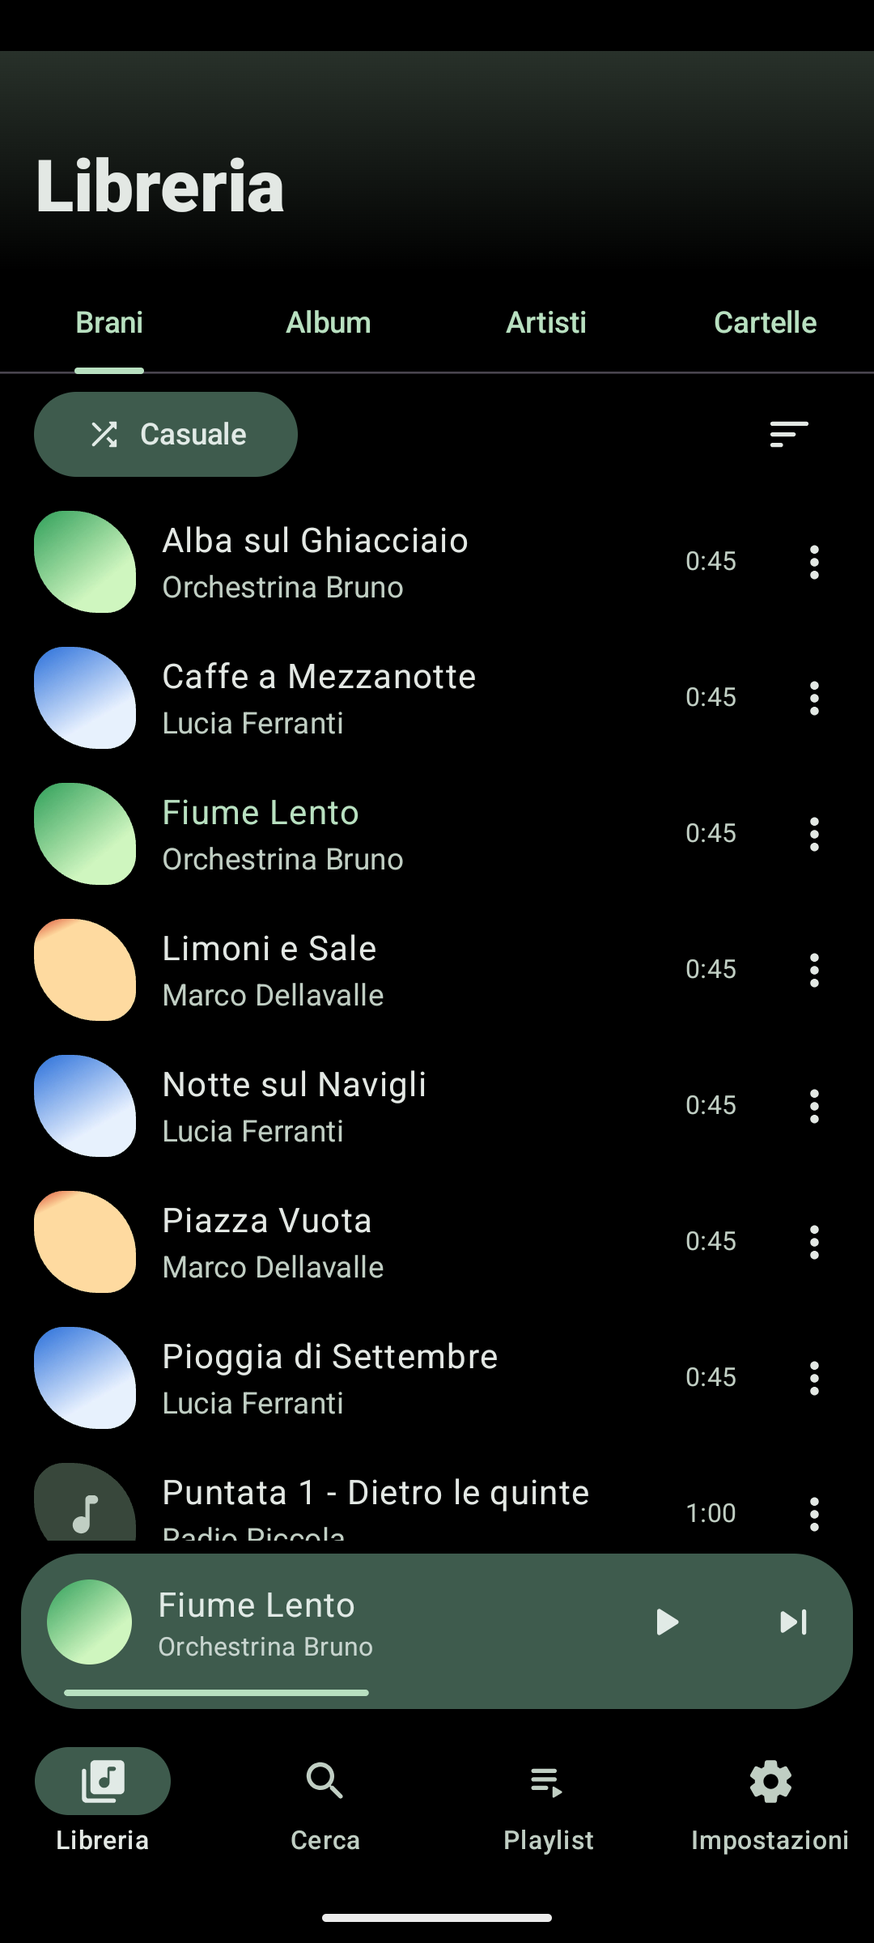
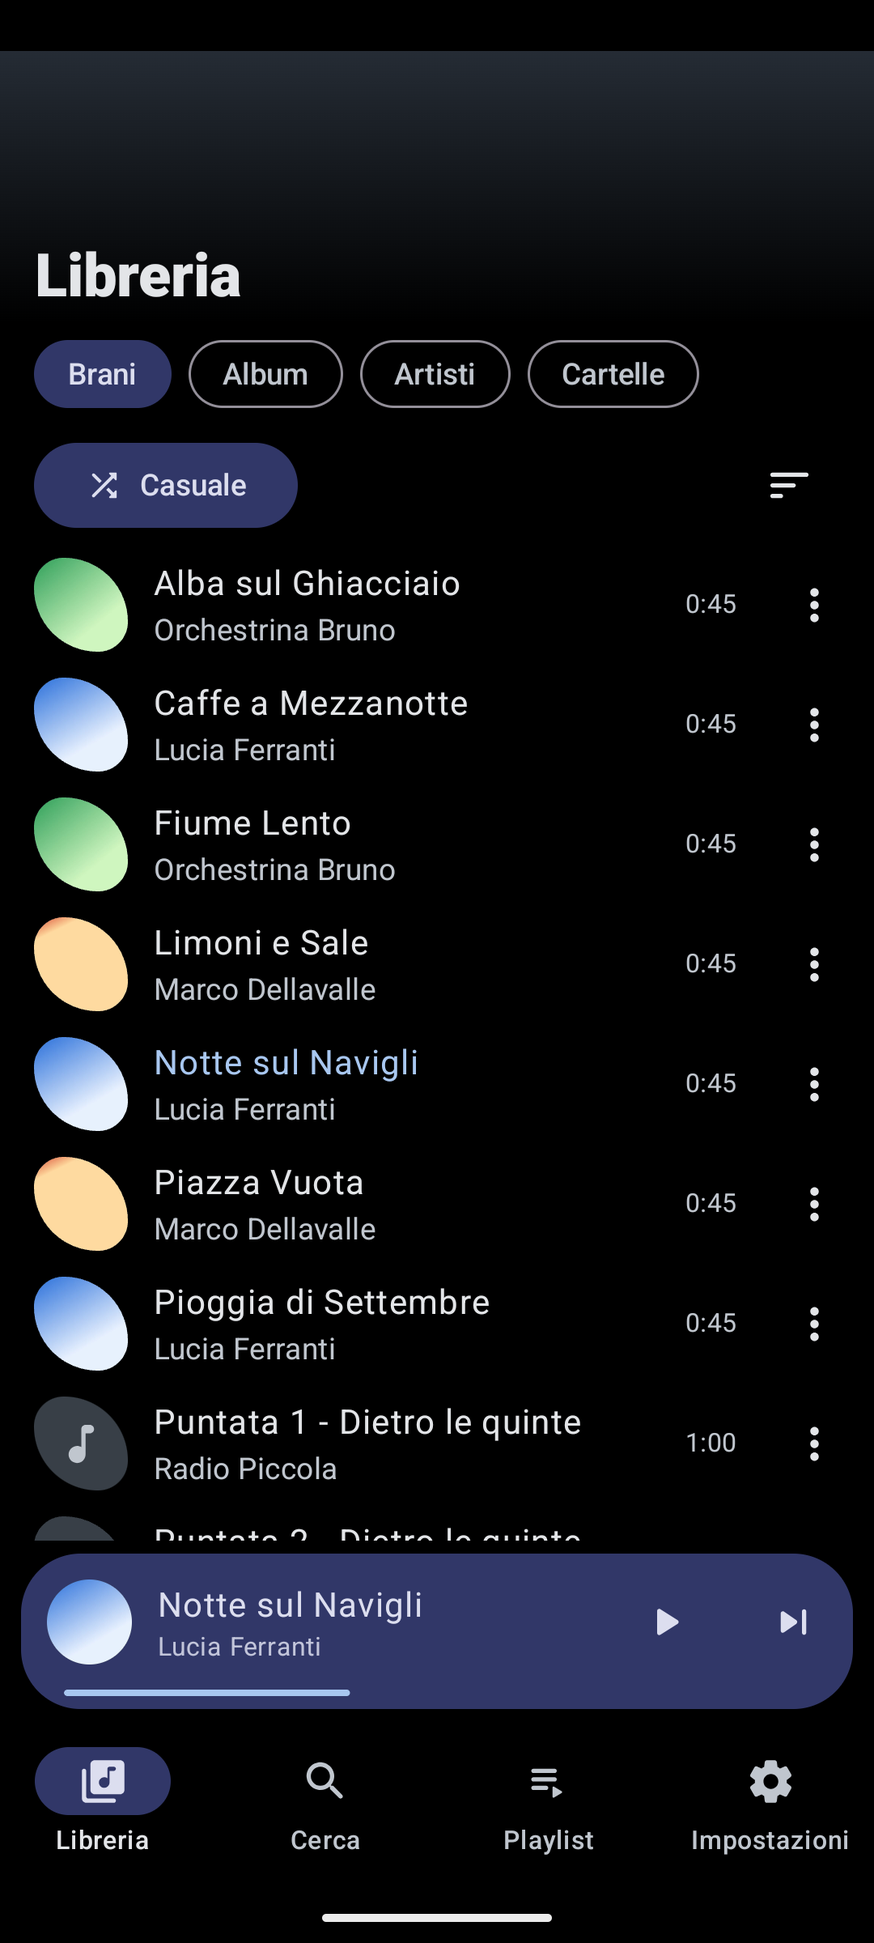
feat(ui): compact library with pill filters and a collapsing title; preview v1.3

diff --git a/docs/preview/index.html b/docs/preview/index.html
@@ -1,4 +1,4 @@
-<!doctype html><html lang="it"><head><meta charset="utf-8"><meta name="viewport" content="width=device-width,initial-scale=1"><title>Brano — anteprima v1.2</title><style>
+<!doctype html><html lang="it"><head><meta charset="utf-8"><meta name="viewport" content="width=device-width,initial-scale=1"><title>Brano — anteprima v1.3</title><style>
 :root{--bg:#f7f7fb;--fg:#1b1b22;--mut:#5b5b69;--card:#fff;--acc:#2a5db0;--line:#dcdce6;--frame:#1b1b22}
 @media(prefers-color-scheme:dark){:root{--bg:#121216;--fg:#ececf2;--mut:#a3a3b2;--card:#1c1c22;--acc:#8fb4ff;--line:#33333d;--frame:#05050a}}
 *{box-sizing:border-box}body{margin:0;background:var(--bg);color:var(--fg);font:16px/1.55 system-ui,-apple-system,Segoe UI,Roboto,sans-serif}
@@ -11,16 +11,17 @@ p,li{max-width:70ch}a{color:var(--acc)}code{background:var(--card);border:1px so
 dialog{border:0;border-radius:16px;padding:12px;background:var(--card);color:var(--fg);max-width:min(92vw,460px)}dialog::backdrop{background:rgba(0,0,0,.7)}
 dialog img{display:block;max-width:100%;max-height:80vh;margin:0 auto;border-radius:12px}dialog p{margin:8px 0 0;text-align:center}dialog button{margin-top:8px;font:inherit;padding:6px 14px}
 </style></head><body><main>
-<h1>Brano — anteprima v1.2</h1>
+<h1>Brano — anteprima v1.3</h1>
 <p>Brano e' un lettore musicale locale per Android: libreria, ricerca, playlist, coda, timer di spegnimento, tema chiaro/scuro e colori presi dalla copertina. Costruito e provato su emulatore Android 16 con una libreria di prova (brani e nomi inventati). Tocca un'immagine per ingrandirla.</p>
-<p><b>Novita' v1.2:</b> tema scuro come predefinito, con la luce dell'album nelle intestazioni; album e playlist con copertina grande e pulsanti a pillola; nel player i comandi stanno in basso, vicino al pollice, e la coda e' nella riga in fondo. Il tema chiaro resta in Impostazioni.</p>
+<p><b>Novita' v1.3:</b> libreria piu' compatta (filtri a pillola, titolo che si riduce scorrendo, circa 10 brani per schermata), etichetta della qualita' del file (FLAC nelle liste, formato e kbps nel player), copertine grigie neutre nel player.</p>
+<p><b>v1.2:</b> tema scuro come predefinito, con la luce dell'album nelle intestazioni; album e playlist con copertina grande e pulsanti a pillola; nel player i comandi stanno in basso, vicino al pollice, e la coda e' nella riga in fondo. Il tema chiaro resta in Impostazioni.</p>
 <p><b>v1.1 (redesign):</b> libreria in stile Espressivo (titoli grandi, copertine con angoli asimmetrici, mini-player a pillola) e player in stile Vinile (luce dai colori dell'album, copertina a disco che gira durante la riproduzione, titolo serif). Il disco si puo' fermare da Impostazioni &rarr; Disco che gira.</p>
-<section><h2>Libreria</h2><div class="grid"><figure><button class="ph" data-src="img/01-libreria-brani.png" data-cap="Brani: elenco con copertine, durata e pulsante Casuale."><img src="img/01-libreria-brani.png" alt="Brani: elenco con copertine, durata e pulsante Casuale." loading="lazy"></button><figcaption>Brani: elenco con copertine, durata e pulsante Casuale.</figcaption></figure><figure><button class="ph" data-src="img/02-libreria-album.png" data-cap="Album: griglia di copertine."><img src="img/02-libreria-album.png" alt="Album: griglia di copertine." loading="lazy"></button><figcaption>Album: griglia di copertine.</figcaption></figure><figure><button class="ph" data-src="img/03-libreria-artisti.png" data-cap="Artisti."><img src="img/03-libreria-artisti.png" alt="Artisti." loading="lazy"></button><figcaption>Artisti.</figcaption></figure><figure><button class="ph" data-src="img/04-libreria-cartelle.png" data-cap="Cartelle: il podcast resta separato dalla musica."><img src="img/04-libreria-cartelle.png" alt="Cartelle: il podcast resta separato dalla musica." loading="lazy"></button><figcaption>Cartelle: il podcast resta separato dalla musica.</figcaption></figure><figure><button class="ph" data-src="img/05-dettaglio-album.png" data-cap="Dettaglio di un album: copertina illuminata dal suo colore, anno, brani e durata totale."><img src="img/05-dettaglio-album.png" alt="Dettaglio di un album: copertina illuminata dal suo colore, anno, brani e durata totale." loading="lazy"></button><figcaption>Dettaglio di un album: copertina illuminata dal suo colore, anno, brani e durata totale.</figcaption></figure><figure><button class="ph" data-src="img/06-dettaglio-artista.png" data-cap="Artista con la riga degli album e i suoi brani."><img src="img/06-dettaglio-artista.png" alt="Artista con la riga degli album e i suoi brani." loading="lazy"></button><figcaption>Artista con la riga degli album e i suoi brani.</figcaption></figure></div></section><section><h2>Ricerca</h2><div class="grid"><figure><button class="ph" data-src="img/07-cerca.png" data-cap="Ricerca istantanea su brani, album e artisti."><img src="img/07-cerca.png" alt="Ricerca istantanea su brani, album e artisti." loading="lazy"></button><figcaption>Ricerca istantanea su brani, album e artisti.</figcaption></figure></div></section><section><h2>Playlist</h2><div class="grid"><figure><button class="ph" data-src="img/14-playlist-elenco.png" data-cap="Playlist automatiche e le tue playlist."><img src="img/14-playlist-elenco.png" alt="Playlist automatiche e le tue playlist." loading="lazy"></button><figcaption>Playlist automatiche e le tue playlist.</figcaption></figure><figure><button class="ph" data-src="img/14b-preferiti.png" data-cap="Preferiti, popolati con il cuore del Player."><img src="img/14b-preferiti.png" alt="Preferiti, popolati con il cuore del Player." loading="lazy"></button><figcaption>Preferiti, popolati con il cuore del Player.</figcaption></figure><figure><button class="ph" data-src="img/15-playlist-dettaglio.png" data-cap="Dettaglio playlist con la stessa intestazione e riordino a trascinamento."><img src="img/15-playlist-dettaglio.png" alt="Dettaglio playlist con la stessa intestazione e riordino a trascinamento." loading="lazy"></button><figcaption>Dettaglio playlist con la stessa intestazione e riordino a trascinamento.</figcaption></figure></div></section><section><h2>Player</h2><div class="grid"><figure><button class="ph" data-src="img/09-miniplayer.png" data-cap="Mini-player sopra la libreria, con colori dalla copertina."><img src="img/09-miniplayer.png" alt="Mini-player sopra la libreria, con colori dalla copertina." loading="lazy"></button><figcaption>Mini-player sopra la libreria, con colori dalla copertina.</figcaption></figure><figure><button class="ph" data-src="img/10-player-album-a.png" data-cap="Player Vinile: disco grande, comandi in basso vicino al pollice."><img src="img/10-player-album-a.png" alt="Player Vinile: disco grande, comandi in basso vicino al pollice." loading="lazy"></button><figcaption>Player Vinile: disco grande, comandi in basso vicino al pollice.</figcaption></figure><figure><button class="ph" data-src="img/11-player-album-b.png" data-cap="Stesso player con l'album B: luce e accenti diventano arancio."><img src="img/11-player-album-b.png" alt="Stesso player con l'album B: luce e accenti diventano arancio." loading="lazy"></button><figcaption>Stesso player con l'album B: luce e accenti diventano arancio.</figcaption></figure><figure><button class="ph" data-src="img/12-coda.png" data-cap="Coda di riproduzione, con Salva come playlist."><img src="img/12-coda.png" alt="Coda di riproduzione, con Salva come playlist." loading="lazy"></button><figcaption>Coda di riproduzione, con Salva come playlist.</figcaption></figure><figure><button class="ph" data-src="img/13-timer-spegnimento.png" data-cap="Timer di spegnimento."><img src="img/13-timer-spegnimento.png" alt="Timer di spegnimento." loading="lazy"></button><figcaption>Timer di spegnimento.</figcaption></figure></div></section><section><h2>Impostazioni</h2><div class="grid"><figure><button class="ph" data-src="img/16-impostazioni.png" data-cap="Tema, colori dalla copertina, Disco che gira, durata minima, cartelle escluse."><img src="img/16-impostazioni.png" alt="Tema, colori dalla copertina, Disco che gira, durata minima, cartelle escluse." loading="lazy"></button><figcaption>Tema, colori dalla copertina, Disco che gira, durata minima, cartelle escluse.</figcaption></figure></div></section>
+<section><h2>Libreria</h2><div class="grid"><figure><button class="ph" data-src="img/01-libreria-brani.png" data-cap="Brani: filtri a pillola, righe compatte, pulsante Casuale."><img src="img/01-libreria-brani.png" alt="Brani: filtri a pillola, righe compatte, pulsante Casuale." loading="lazy"></button><figcaption>Brani: filtri a pillola, righe compatte, pulsante Casuale.</figcaption></figure><figure><button class="ph" data-src="img/02-libreria-album.png" data-cap="Album: griglia di copertine."><img src="img/02-libreria-album.png" alt="Album: griglia di copertine." loading="lazy"></button><figcaption>Album: griglia di copertine.</figcaption></figure><figure><button class="ph" data-src="img/03-libreria-artisti.png" data-cap="Artisti."><img src="img/03-libreria-artisti.png" alt="Artisti." loading="lazy"></button><figcaption>Artisti.</figcaption></figure><figure><button class="ph" data-src="img/04-libreria-cartelle.png" data-cap="Cartelle: il podcast resta separato dalla musica."><img src="img/04-libreria-cartelle.png" alt="Cartelle: il podcast resta separato dalla musica." loading="lazy"></button><figcaption>Cartelle: il podcast resta separato dalla musica.</figcaption></figure><figure><button class="ph" data-src="img/05-dettaglio-album.png" data-cap="Dettaglio di un album: copertina illuminata dal suo colore, anno, brani e durata totale."><img src="img/05-dettaglio-album.png" alt="Dettaglio di un album: copertina illuminata dal suo colore, anno, brani e durata totale." loading="lazy"></button><figcaption>Dettaglio di un album: copertina illuminata dal suo colore, anno, brani e durata totale.</figcaption></figure><figure><button class="ph" data-src="img/06-dettaglio-artista.png" data-cap="Artista con la riga degli album e i suoi brani."><img src="img/06-dettaglio-artista.png" alt="Artista con la riga degli album e i suoi brani." loading="lazy"></button><figcaption>Artista con la riga degli album e i suoi brani.</figcaption></figure></div></section><section><h2>Ricerca</h2><div class="grid"><figure><button class="ph" data-src="img/07-cerca.png" data-cap="Ricerca istantanea su brani, album e artisti."><img src="img/07-cerca.png" alt="Ricerca istantanea su brani, album e artisti." loading="lazy"></button><figcaption>Ricerca istantanea su brani, album e artisti.</figcaption></figure></div></section><section><h2>Playlist</h2><div class="grid"><figure><button class="ph" data-src="img/14-playlist-elenco.png" data-cap="Playlist automatiche e le tue playlist."><img src="img/14-playlist-elenco.png" alt="Playlist automatiche e le tue playlist." loading="lazy"></button><figcaption>Playlist automatiche e le tue playlist.</figcaption></figure><figure><button class="ph" data-src="img/14b-preferiti.png" data-cap="Preferiti, popolati con il cuore del Player."><img src="img/14b-preferiti.png" alt="Preferiti, popolati con il cuore del Player." loading="lazy"></button><figcaption>Preferiti, popolati con il cuore del Player.</figcaption></figure><figure><button class="ph" data-src="img/15-playlist-dettaglio.png" data-cap="Dettaglio playlist con la stessa intestazione e riordino a trascinamento."><img src="img/15-playlist-dettaglio.png" alt="Dettaglio playlist con la stessa intestazione e riordino a trascinamento." loading="lazy"></button><figcaption>Dettaglio playlist con la stessa intestazione e riordino a trascinamento.</figcaption></figure></div></section><section><h2>Player</h2><div class="grid"><figure><button class="ph" data-src="img/09-miniplayer.png" data-cap="Mini-player sopra la libreria, con colori dalla copertina."><img src="img/09-miniplayer.png" alt="Mini-player sopra la libreria, con colori dalla copertina." loading="lazy"></button><figcaption>Mini-player sopra la libreria, con colori dalla copertina.</figcaption></figure><figure><button class="ph" data-src="img/10-player-album-a.png" data-cap="Player Vinile: disco grande, comandi in basso, etichetta della qualita' del file."><img src="img/10-player-album-a.png" alt="Player Vinile: disco grande, comandi in basso, etichetta della qualita' del file." loading="lazy"></button><figcaption>Player Vinile: disco grande, comandi in basso, etichetta della qualita' del file.</figcaption></figure><figure><button class="ph" data-src="img/11-player-album-b.png" data-cap="Stesso player con l'album B: luce e accenti diventano arancio."><img src="img/11-player-album-b.png" alt="Stesso player con l'album B: luce e accenti diventano arancio." loading="lazy"></button><figcaption>Stesso player con l'album B: luce e accenti diventano arancio.</figcaption></figure><figure><button class="ph" data-src="img/12-coda.png" data-cap="Coda di riproduzione, con Salva come playlist."><img src="img/12-coda.png" alt="Coda di riproduzione, con Salva come playlist." loading="lazy"></button><figcaption>Coda di riproduzione, con Salva come playlist.</figcaption></figure><figure><button class="ph" data-src="img/13-timer-spegnimento.png" data-cap="Timer di spegnimento."><img src="img/13-timer-spegnimento.png" alt="Timer di spegnimento." loading="lazy"></button><figcaption>Timer di spegnimento.</figcaption></figure></div></section><section><h2>Impostazioni</h2><div class="grid"><figure><button class="ph" data-src="img/16-impostazioni.png" data-cap="Tema, colori dalla copertina, Disco che gira, durata minima, cartelle escluse."><img src="img/16-impostazioni.png" alt="Tema, colori dalla copertina, Disco che gira, durata minima, cartelle escluse." loading="lazy"></button><figcaption>Tema, colori dalla copertina, Disco che gira, durata minima, cartelle escluse.</figcaption></figure></div></section>
 <section><h2>Installa sul telefono</h2>
-<p><a class="btn" href="Brano-v1.2.apk" download>Scarica Brano-v1.2.apk</a></p>
+<p><a class="btn" href="Brano-v1.3.apk" download>Scarica Brano-v1.3.apk</a></p>
 <p>L'APK e' firmato con la chiave di debug (non e' una build per lo store).</p>
-<ol><li>Copia <code>Brano-v1.2.apk</code> sul telefono e aprilo; consenti l'installazione da origini sconosciute per l'app che usi (File, Chrome...).</li>
-<li>Oppure, con il telefono collegato e il debug USB attivo: <code>adb install -r docs/preview/Brano-v1.2.apk</code></li>
+<ol><li>Copia <code>Brano-v1.3.apk</code> sul telefono e aprilo; consenti l'installazione da origini sconosciute per l'app che usi (File, Chrome...).</li>
+<li>Oppure, con il telefono collegato e il debug USB attivo: <code>adb install -r docs/preview/Brano-v1.3.apk</code></li>
 <li>Al primo avvio concedi il permesso audio (e le notifiche, per i controlli multimediali).</li></ol></section>
 <section><h2>Cosa verificare tu</h2><ul>
 <li>Gapless: nessun silenzio tra due brani consecutivi dello stesso album.</li>

diff --git a/app/src/main/java/app/brano/ui/components/BranoTopBar.kt b/app/src/main/java/app/brano/ui/components/BranoTopBar.kt
@@ -1,22 +1,25 @@
 package app.brano.ui.components
 
 import androidx.compose.foundation.layout.RowScope
-import androidx.compose.ui.graphics.Color
-import androidx.compose.ui.graphics.Brush
-import androidx.compose.ui.draw.drawBehind
-import androidx.compose.ui.Modifier
 import androidx.compose.material3.ExperimentalMaterial3Api
+import androidx.compose.material3.LargeTopAppBar
 import androidx.compose.material3.MaterialTheme
 import androidx.compose.material3.ProvideTextStyle
 import androidx.compose.material3.TopAppBar
 import androidx.compose.material3.TopAppBarDefaults
+import androidx.compose.material3.TopAppBarScrollBehavior
 import androidx.compose.runtime.Composable
+import androidx.compose.ui.Modifier
+import androidx.compose.ui.draw.drawBehind
+import androidx.compose.ui.graphics.Brush
+import androidx.compose.ui.graphics.Color
 import androidx.compose.ui.text.font.FontWeight
 import androidx.compose.ui.unit.dp
 
 /**
- * Top bar in the "Espressivo" style: top-level screens ([large]) get a very large heavy title,
- * detail screens a heavy regular-size one.
+ * Top bar in the "Espressivo" style. Top-level screens ([large]) get a big heavy title over a soft
+ * album glow; with a [scrollBehavior] it collapses into a normal bar while the content scrolls.
+ * Detail screens get a heavy regular-size title.
  */
 @OptIn(ExperimentalMaterial3Api::class)
 @Composable
@@ -25,24 +28,31 @@ fun BranoTopBar(
     title: @Composable () -> Unit,
     navigationIcon: @Composable () -> Unit = {},
     actions: @Composable RowScope.() -> Unit = {},
+    scrollBehavior: TopAppBarScrollBehavior? = null,
 ) {
-    val style = if (large) {
-        MaterialTheme.typography.headlineLarge
-    } else {
-        MaterialTheme.typography.titleLarge.copy(fontWeight = FontWeight.Black)
-    }
-    val glow = MaterialTheme.colorScheme.primary.copy(alpha = 0.22f)
-    TopAppBar(
-        title = { ProvideTextStyle(style, title) },
-        navigationIcon = navigationIcon,
-        actions = actions,
-        expandedHeight = if (large) 80.dp else TopAppBarDefaults.TopAppBarExpandedHeight,
-        colors = TopAppBarDefaults.topAppBarColors(containerColor = Color.Transparent),
-        modifier = if (large) {
-            // Static gradient, drawn once per frame of the bar only: no blur, no shader.
-            Modifier.drawBehind { drawRect(Brush.verticalGradient(listOf(glow, Color.Transparent))) }
-        } else {
-            Modifier
-        },
+    val transparent = TopAppBarDefaults.topAppBarColors(
+        containerColor = Color.Transparent,
+        scrolledContainerColor = Color.Transparent,
     )
+    if (large) {
+        val glow = MaterialTheme.colorScheme.primary.copy(alpha = 0.22f)
+        // Expanded title uses headlineMedium (Black in BranoTypography), collapsed titleLarge.
+        LargeTopAppBar(
+            title = title,
+            navigationIcon = navigationIcon,
+            actions = actions,
+            expandedHeight = 104.dp,
+            colors = transparent,
+            scrollBehavior = scrollBehavior,
+            // Static gradient: no blur, no shader.
+            modifier = Modifier.drawBehind { drawRect(Brush.verticalGradient(listOf(glow, Color.Transparent))) },
+        )
+    } else {
+        TopAppBar(
+            title = { ProvideTextStyle(MaterialTheme.typography.titleLarge.copy(fontWeight = FontWeight.Black), title) },
+            navigationIcon = navigationIcon,
+            actions = actions,
+            colors = transparent,
+        )
+    }
 }

diff --git a/app/src/main/java/app/brano/ui/library/LibraryScreen.kt b/app/src/main/java/app/brano/ui/library/LibraryScreen.kt
@@ -1,6 +1,14 @@
 package app.brano.ui.library
 
 import androidx.activity.compose.BackHandler
+import app.brano.ui.theme.PillShape
+import androidx.compose.foundation.layout.fillMaxWidth
+import androidx.compose.foundation.layout.Row
+import androidx.compose.foundation.rememberScrollState
+import androidx.compose.foundation.horizontalScroll
+import androidx.compose.material3.FilterChip
+import androidx.compose.material3.TopAppBarDefaults
+import androidx.compose.ui.input.nestedscroll.nestedScroll
 import app.brano.ui.components.BranoTopBar
 import androidx.activity.compose.ReportDrawnWhen
 import androidx.compose.foundation.layout.Arrangement
@@ -61,8 +69,9 @@ internal fun SelectableScaffold(
     var sheetTracks by remember { mutableStateOf<List<Track>>(emptyList()) }
     var sheetFromSelection by remember { mutableStateOf(false) }
     BackHandler(enabled = selection.active) { selection.clear() }
+    val collapse = TopAppBarDefaults.exitUntilCollapsedScrollBehavior()
 
-    Column(Modifier.fillMaxSize()) {
+    Column(if (onBack == null) Modifier.fillMaxSize().nestedScroll(collapse.nestedScrollConnection) else Modifier.fillMaxSize()) {
         if (selection.active) {
             SelectionTopBar(
                 count = selection.selected.size,
@@ -75,6 +84,7 @@ internal fun SelectableScaffold(
         } else {
             BranoTopBar(
                 large = onBack == null,
+                scrollBehavior = if (onBack == null) collapse else null,
                 title = { Text(title) },
                 navigationIcon = {
                     if (onBack != null) {
@@ -147,12 +157,16 @@ fun LibraryScreen(
             tracks.isEmpty() -> EmptyLibrary(onOpenSettings)
             else -> Column(Modifier.fillMaxSize()) {
                 val labels = listOf(R.string.tab_tracks, R.string.tab_albums, R.string.tab_artists, R.string.tab_folders)
-                PrimaryTabRow(selectedTabIndex = pager.currentPage) {
+                Row(
+                    Modifier.fillMaxWidth().horizontalScroll(rememberScrollState()).padding(horizontal = 16.dp),
+                    horizontalArrangement = Arrangement.spacedBy(8.dp),
+                ) {
                     labels.forEachIndexed { i, label ->
-                        Tab(
+                        FilterChip(
                             selected = pager.currentPage == i,
                             onClick = { scope.launch { pager.animateScrollToPage(i) } },
-                            text = { Text(stringResource(label)) },
+                            label = { Text(stringResource(label)) },
+                            shape = PillShape,
                         )
                     }
                 }

diff --git a/app/src/main/java/app/brano/ui/settings/SettingsScreen.kt b/app/src/main/java/app/brano/ui/settings/SettingsScreen.kt
@@ -1,6 +1,8 @@
 package app.brano.ui.settings
 
 import androidx.annotation.StringRes
+import androidx.compose.material3.TopAppBarDefaults
+import androidx.compose.ui.input.nestedscroll.nestedScroll
 import app.brano.ui.components.BranoTopBar
 import androidx.compose.foundation.clickable
 import androidx.compose.foundation.layout.Arrangement
@@ -61,7 +63,11 @@ fun SettingsScreen(viewModel: SettingsViewModel = hiltViewModel()) {
     // Local while dragging; persisted on release.
     var sliderSec by remember(settings.minDurationMs) { mutableFloatStateOf(settings.minDurationMs / 1000f) }
 
-    Scaffold(topBar = { BranoTopBar(large = true, title = { Text(stringResource(R.string.settings_title)) }) }) { padding ->
+    val collapse = TopAppBarDefaults.exitUntilCollapsedScrollBehavior()
+    Scaffold(
+        modifier = Modifier.nestedScroll(collapse.nestedScrollConnection),
+        topBar = { BranoTopBar(large = true, title = { Text(stringResource(R.string.settings_title)) }, scrollBehavior = collapse) },
+    ) { padding ->
         Column(Modifier.padding(padding).verticalScroll(rememberScrollState())) {
             SectionTitle(R.string.settings_theme)
             Column(Modifier.selectableGroup()) {

diff --git a/app/src/main/java/app/brano/ui/playlists/PlaylistsScreen.kt b/app/src/main/java/app/brano/ui/playlists/PlaylistsScreen.kt
@@ -1,6 +1,8 @@
 package app.brano.ui.playlists
 
 import androidx.activity.compose.rememberLauncherForActivityResult
+import androidx.compose.material3.TopAppBarDefaults
+import androidx.compose.ui.input.nestedscroll.nestedScroll
 import app.brano.ui.components.BranoTopBar
 import androidx.activity.result.contract.ActivityResultContracts
 import androidx.annotation.StringRes
@@ -81,11 +83,14 @@ fun PlaylistsScreen(
         }
     }
 
+    val collapse = TopAppBarDefaults.exitUntilCollapsedScrollBehavior()
     Scaffold(
+        modifier = Modifier.nestedScroll(collapse.nestedScrollConnection),
         contentWindowInsets = WindowInsets(0.dp),
         topBar = {
             BranoTopBar(
                 large = true,
+                scrollBehavior = collapse,
                 title = { Text(stringResource(R.string.tab_playlists)) },
                 actions = {
                     Box {
